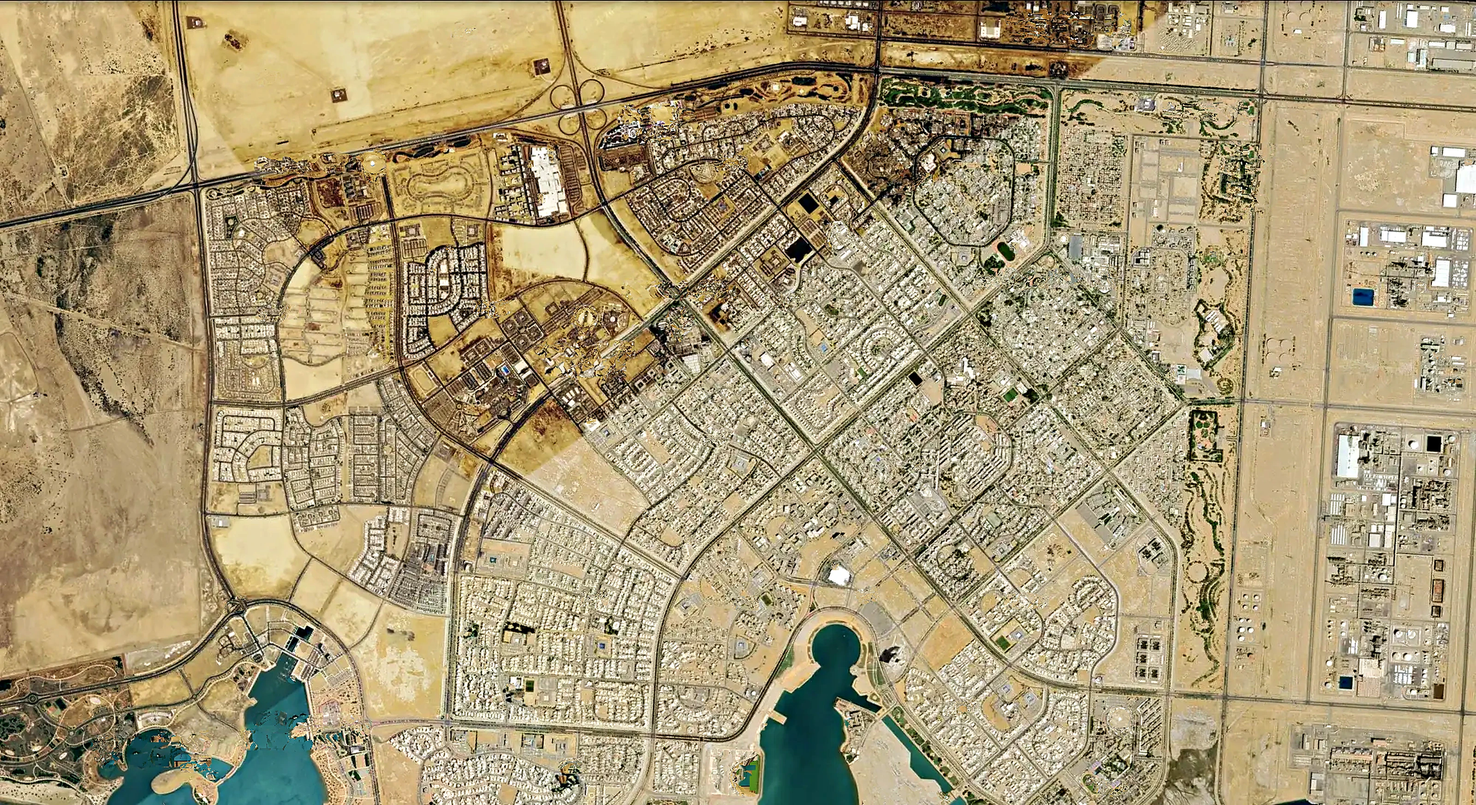
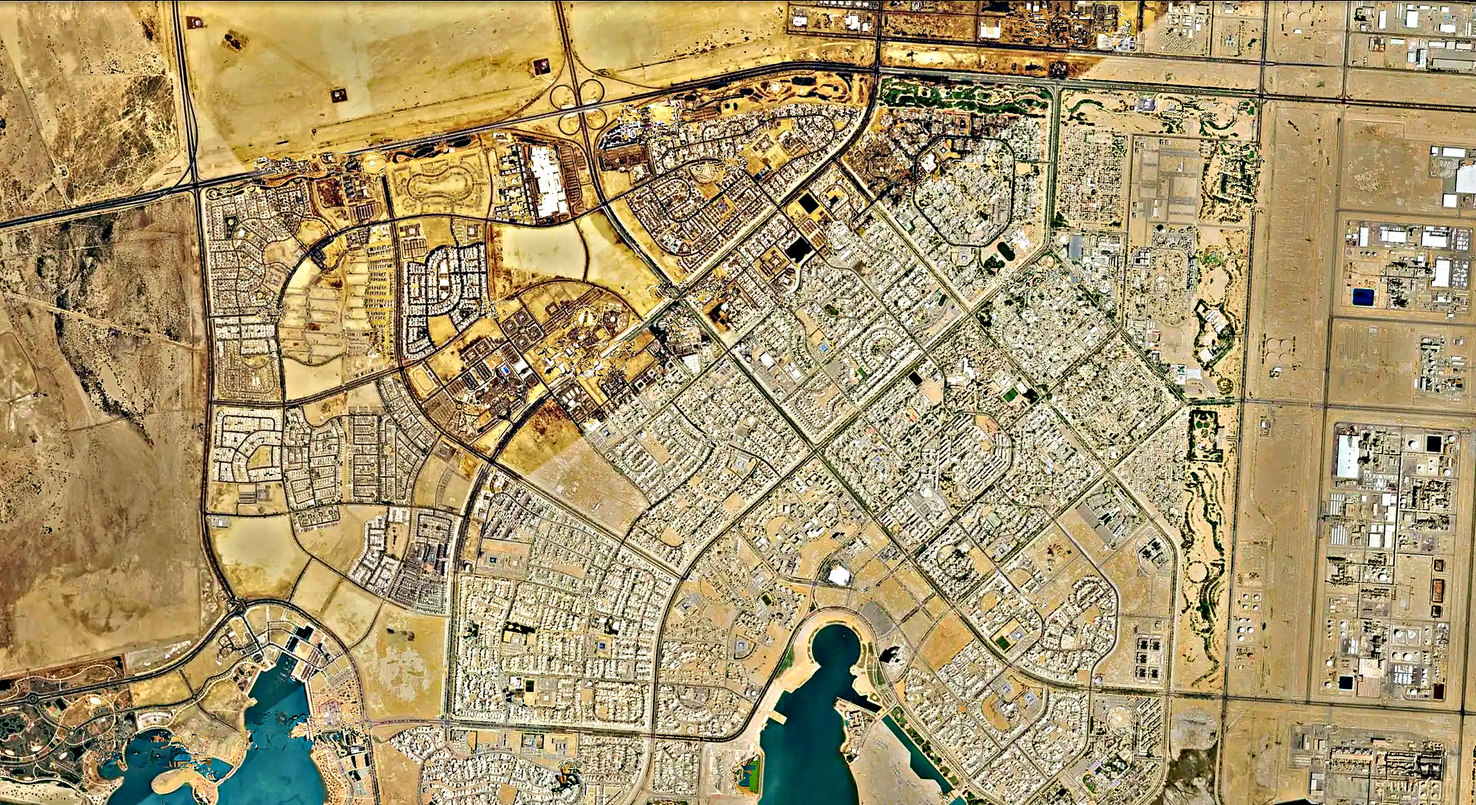
Crisper satellite, full map on dashboard

diff --git a/style.css b/style.css
@@ -494,16 +494,17 @@ h4.wg{margin:18px 0 8px;font-size:14px;color:var(--gold)}
 /* الخريطة التفاعلية: لوحة داكنة فوق صورة الأقمار الصناعية، وبطاقات مؤشرات فوق كل موقع */
 .gmap{position:relative;line-height:0;user-select:none;background:#1b232b}
 .gmap img{width:100%;height:auto;display:block;filter:grayscale(.75) brightness(.5) contrast(1.2)}
-.gmap img.dk{filter:none} .gmap img.sat{filter:brightness(.94)}
+.gmap img.dk{filter:none} .gmap img.sat{filter:none}
 .gxlay{all:unset;box-sizing:border-box;position:absolute;bottom:16px;right:64px;z-index:6;width:78px;height:78px;border-radius:12px;border:3px solid #fff;background-size:cover;background-position:55% 50%;cursor:pointer;box-shadow:0 6px 18px rgba(0,0,0,.45);overflow:hidden;transition:transform .15s}
 .gxlay:hover{transform:scale(1.05)} .gxlay:focus-visible{outline:3px solid #d4ad74;outline-offset:2px}
 .gxlay span{position:absolute;inset:auto 0 0 0;background:linear-gradient(0deg,rgba(0,0,0,.8),rgba(0,0,0,0));color:#fff;font-size:11.5px;font-weight:800;text-align:center;padding:12px 2px 4px;line-height:1.2}
 .gx.mini .gxlay{right:16px;width:66px;height:66px} .gx.hasbar .gxlay{bottom:112px}
 .gxattr{position:absolute;bottom:4px;left:50%;transform:translateX(-50%);z-index:6;font-size:10.5px;color:rgba(230,237,242,.55);pointer-events:none}
+.gmap:has(img.sat)::after{display:none}
 .gmap::after{content:"";position:absolute;inset:0;pointer-events:none;z-index:1;background:radial-gradient(ellipse at 50% 50%,rgba(8,12,16,0) 35%,rgba(8,12,16,.55) 100%)} .gx.edit .gmap{cursor:crosshair}
 .gx{position:relative;border-radius:18px;overflow:hidden;background:#141b22;color:#eef2f5;box-shadow:0 10px 30px rgba(0,0,0,.25)}
 .gxv{overflow:auto;aspect-ratio:3200/1745;max-height:78vh;width:100%;scrollbar-width:thin}
-.gx.mini .gxv{max-height:440px;overflow:hidden} .gx.mini .gxh h2{font-size:20px} .gxtabs a{padding:7px 16px;border-radius:9px;font-weight:700;font-size:14px;color:#e6edf2;text-decoration:none} .gxtabs a.on{background:#fff;color:#16242f}
+.gx.mini .gxv{max-height:none;overflow:hidden} .gx.mini .gxh h2{font-size:20px} .gxtabs a{padding:7px 16px;border-radius:9px;font-weight:700;font-size:14px;color:#e6edf2;text-decoration:none} .gxtabs a.on{background:#fff;color:#16242f}
 .gx.mini .gxleg{flex-direction:row;gap:14px}
 .gxh{position:relative;z-index:6;display:flex;align-items:center;gap:14px;padding:14px 20px;background:#141b22;border-bottom:1px solid rgba(255,255,255,.08)}
 .gxh>*{pointer-events:auto} .gxh h2{margin:0;font-size:24px;font-weight:800;color:#fff;letter-spacing:-.2px} .gxh h2 span{font-weight:500;font-size:16px;color:#cfd8df;margin-inline-start:6px} .gxh .small{color:#b9c4cc;margin-top:2px}

diff --git a/index.html b/index.html
@@ -8,7 +8,7 @@
 <title>مدار الأصول</title>
 <link rel="preconnect" href="https://fonts.googleapis.com">
 <link href="https://fonts.googleapis.com/css2?family=Tajawal:wght@400;500;700;800&display=swap" rel="stylesheet">
-<link rel="stylesheet" href="style.css?v=76">
+<link rel="stylesheet" href="style.css?v=77">
 <script src="https://cdnjs.cloudflare.com/ajax/libs/Chart.js/4.4.1/chart.umd.min.js"></script>
 <script src="https://cdnjs.cloudflare.com/ajax/libs/qrcodejs/1.0.0/qrcode.min.js"></script>
 </head>
@@ -31,6 +31,6 @@
   </div>
 </div>
 <div id="modalRoot"></div>
-<script src="app.js?v=130"></script>
+<script src="app.js?v=131"></script>
 </body>
 </html>
